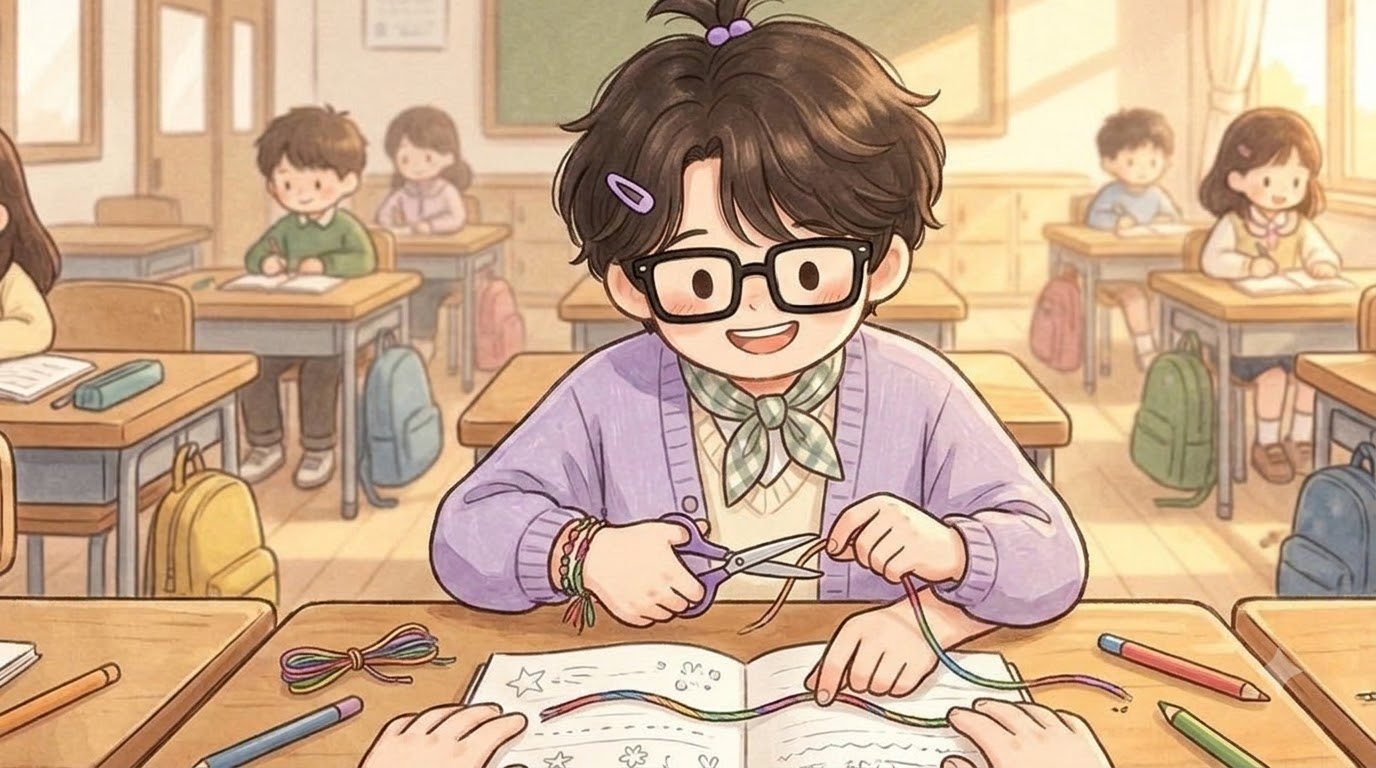
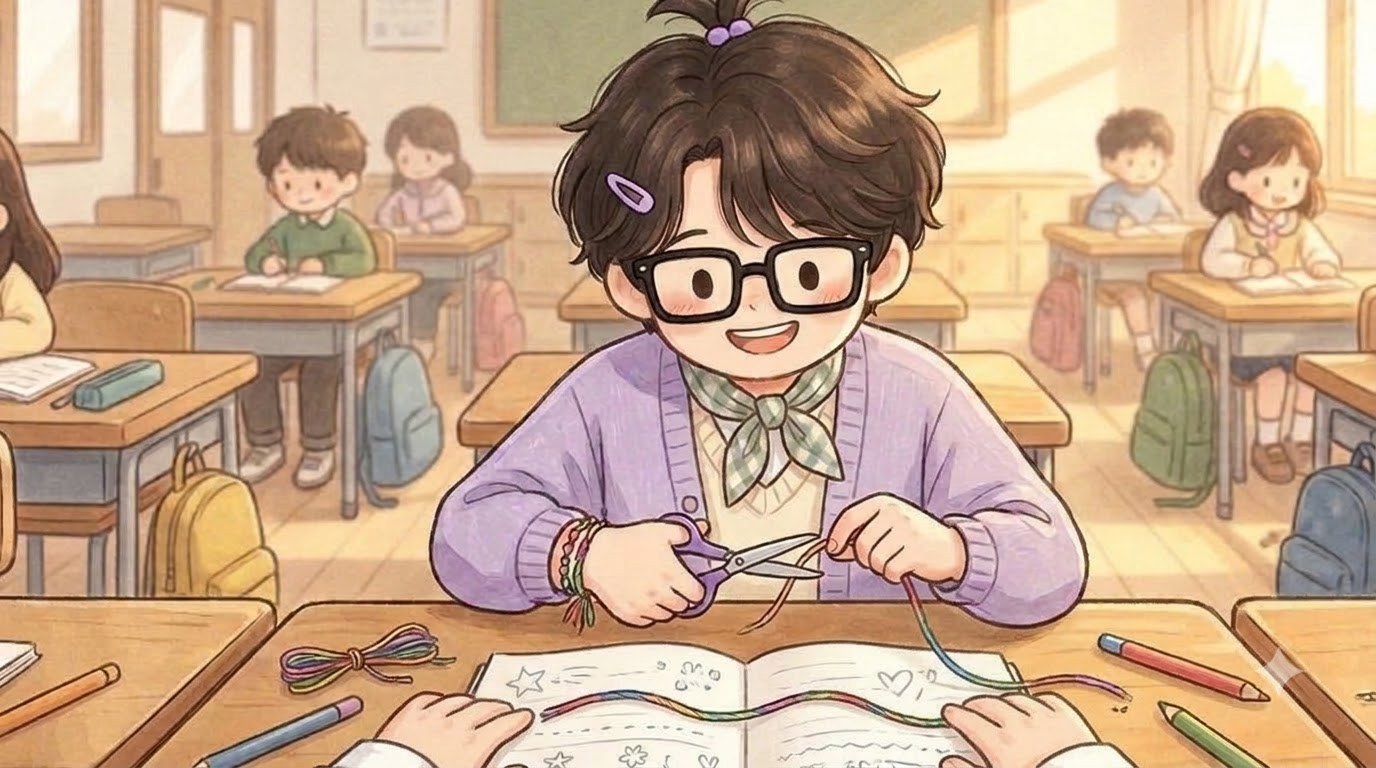
Picking from a tray: no choice of the same kind as the answer any more (two notebooks and a book made 联络本 look like 'the pink notebook'); redrawn: Minho 07e (two legs in one shoe), Hangyeol 12b (three hands) (BUILD 1105205154)

Changed region(s): [[0.5625, 0.75, 0.8438, 1.0], [0.2188, 0.875, 0.4062, 1.0], [0.9062, 0.8438, 0.9375, 0.9062]]

diff --git a/index.html b/index.html
@@ -119,14 +119,14 @@ body,button{word-break:keep-all;overflow-wrap:break-word}
 <div id="fader"></div>
 <script>
 // same address, newest version: if the page this phone has kept is older than the one online, fetch the new one and reopen
-const BUILD='1105201350';
+const BUILD='1105205154';
 try{fetch(location.pathname,{cache:'no-store'}).then(r=>r.text()).then(t=>{const m=t.match(/const BUILD='(\d+)'/);if(m&&m[1]!==BUILD&&sessionStorage.getItem('upd')!==m[1]){sessionStorage.setItem('upd',m[1]);fetch(location.pathname,{cache:'reload'}).then(()=>location.reload())}}).catch(()=>{})}catch(e){}
 </script>
-<script src="i18n.js?v=1105201350"></script>
-<script src="i18n_prologue_v2.js?v=1105201350"></script>
-<script src="day2/i18n_engine.js?v=1105201350"></script>
-<script src="day2/data.js?v=1105201350"></script>
-<script src="day3/data.js?v=1105201350"></script>
+<script src="i18n.js?v=1105205154"></script>
+<script src="i18n_prologue_v2.js?v=1105205154"></script>
+<script src="day2/i18n_engine.js?v=1105205154"></script>
+<script src="day2/data.js?v=1105205154"></script>
+<script src="day3/data.js?v=1105205154"></script>
 <script>
 // ---------- data ----------
 const MW=1672,MH=941,KID=180;
@@ -540,29 +540,29 @@ function pickHero(){const m=document.getElementById('modal'),c=document.getEleme
  c.innerHTML=`<h2>${tr('전학생 반장되기')}</h2><p>${tr('말 한마디 못 하는 전학생,<br>반장 선거에 나가다.')}</p><p style="margin-top:14px">${tr('누구로 할까요?')}</p>${(()=>{const s=loadSave();return s&&s.day>=2&&s.mode===UI+'-'+LANG?`<p><button class="big" id="cont">${tr('{n}일차부터 이어 하기').replace('{n}',s.day)}</button></p>`:''})()}<div class="pick heroes"><button data-h="hero_f"><img src="faces/hero_f_smile.jpg" alt="여자 주인공"></button><button data-h="hero_m"><img src="faces/hero_m_smile.jpg" alt="남자 주인공"></button></div>`;
  m.classList.add('on');{const cb=document.getElementById('cont');if(cb)cb.onclick=()=>{const s=loadSave();HERO=s.hero;Object.assign(HEART,s.heart||{});(s.found||[]).forEach(k=>FOUND.add(k));HEART_D1={...HEART};chime();(typeof contGame==='function'?contGame(s):startDay(Math.min(s.day,Object.keys(window.D3||{}).length?3:2)))}}c.querySelectorAll('.pick button').forEach(b=>b.onclick=()=>{HERO=b.dataset.h;m.classList.remove('on');chime();bgm('day');load('home_am');say([['nar','','이사 온 다음 날 아침. 아직 풀지 못한 상자들이 쌓여 있다.'],['think','sad','(오늘부터 새 학교야. 여기 말도 아직 서툰데…….)'],['think','smile','({m}한테 인사하고 학교 가야지.)']],morning)})}
 </script>
-<script src="day2/engine.js?v=1105201350"></script>
-<script src="day2/ep_minho.js?v=1105201350"></script>
-<script src="day2/meet.js?v=1105201350"></script>
-<script src="day2/ep_sua.js?v=1105201350"></script>
-<script src="day2/ep_hangyeol.js?v=1105201350"></script>
-<script src="day2/ep_siwoo.js?v=1105201350"></script>
-<script src="day2/ep_haram.js?v=1105201350"></script>
-<script src="day2/ep_jiho.js?v=1105201350"></script>
-<script src="day2/ep_hyeeun.js?v=1105201350"></script>
-<script src="day2/ep_haneul.js?v=1105201350"></script>
-<script src="day2/ep_junho.js?v=1105201350"></script>
-<script src="day2/ep_yuna.js?v=1105201350"></script>
-<script src="day2/ep_yena.js?v=1105201350"></script>
-<script src="day2/ep_haeun.js?v=1105201350"></script>
-<script src="day2/ep_youngmin.js?v=1105201350"></script>
-<script src="day2/ep_seah.js?v=1105201350"></script>
-<script src="day2/ep_jihoon.js?v=1105201350"></script>
-<script src="words_ja_ru.js?v=1105201350"></script>
-<script src="day2/mybag.js?v=1105201350"></script>
-<script src="day2/spots.js?v=1105201350"></script>
-<script src="day2/textfit.js?v=1105201350"></script>
-<script src="day2/tester.js?v=1105201350"></script>
-<script src="day2/ux.js?v=1105201350"></script>
+<script src="day2/engine.js?v=1105205154"></script>
+<script src="day2/ep_minho.js?v=1105205154"></script>
+<script src="day2/meet.js?v=1105205154"></script>
+<script src="day2/ep_sua.js?v=1105205154"></script>
+<script src="day2/ep_hangyeol.js?v=1105205154"></script>
+<script src="day2/ep_siwoo.js?v=1105205154"></script>
+<script src="day2/ep_haram.js?v=1105205154"></script>
+<script src="day2/ep_jiho.js?v=1105205154"></script>
+<script src="day2/ep_hyeeun.js?v=1105205154"></script>
+<script src="day2/ep_haneul.js?v=1105205154"></script>
+<script src="day2/ep_junho.js?v=1105205154"></script>
+<script src="day2/ep_yuna.js?v=1105205154"></script>
+<script src="day2/ep_yena.js?v=1105205154"></script>
+<script src="day2/ep_haeun.js?v=1105205154"></script>
+<script src="day2/ep_youngmin.js?v=1105205154"></script>
+<script src="day2/ep_seah.js?v=1105205154"></script>
+<script src="day2/ep_jihoon.js?v=1105205154"></script>
+<script src="words_ja_ru.js?v=1105205154"></script>
+<script src="day2/mybag.js?v=1105205154"></script>
+<script src="day2/spots.js?v=1105205154"></script>
+<script src="day2/textfit.js?v=1105205154"></script>
+<script src="day2/tester.js?v=1105205154"></script>
+<script src="day2/ux.js?v=1105205154"></script>
 <script>
 // the goal shows big for a few seconds, then folds into a small pill (tap it to open it again)
 {const g=document.getElementById('goal');let t=null;const big=()=>{g.classList.remove('mini');clearTimeout(t);t=setTimeout(()=>g.classList.add('mini'),4000)};

diff --git a/day2/mybag.js b/day2/mybag.js
@@ -2,7 +2,7 @@
 // When the hero takes out their OWN thing, the map is not searched: their bag opens on screen as a tray of cut-out pictures.
 // Same find rules: tapping a thing says its name, the button says this mission's action with the target word,
 // the right thing goes on, a wrong one only buzzes. A step {k, goal, bag:[…]} in a scene uses it; so does Mom's notebook review.
-function bagFind(k,items,goalText,done){busy=true;closeBubble();const m=document.getElementById('modal'),c=document.getElementById('mcard');
+function bagFind(k,items,goalText,done){busy=true;closeBubble();items=noLookalike(k,items);const m=document.getElementById('modal'),c=document.getElementById('mcard');
  const goalTr=()=>tr(goalText||'「{x}」 꺼내기');let sel=null;
  c.innerHTML=`<h2>${goalTr().replace('{x}',wordOf(k)+' <button class="spk" id="bagagain">🔊</button>')}</h2><div class="ztray">${items.map(q=>`<button class="zit" data-k="${q}"><img src="items/${q}.png" alt="" onerror="this.parentNode.remove()"></button>`).join('')}</div><div class="zok"></div>`;
  m.classList.add('on');setTimeout(()=>speak(k),350);document.getElementById('bagagain').onclick=()=>speak(k);const okw=c.querySelector('.zok');
@@ -26,9 +26,20 @@ deskFind=function(k,done){bagFind(k,['pcase','notebook','pencil','eraser'],'「{
 // (a seated kid at a desk, or a standing one). The tray shows it with 3–5 other things lying near it (learned words first),
 // never a look-alike. A scene step can force it: {k, tray:true} or {k, tray:false}. Big, clearly visible things stay map taps.
 let TRAY_NEXT=null;// set by runSteps from the step's tray option, read by the next find
-const LOOKALIKE=[['pencil','mechanical_pencil','colored_pencil','crayon','highlighter','pen'],['notebook','sketchbook','paper','envelope','note','book','card','photo','picture','poster','map','calendar'],
- ['handkerchief','tissue','napkin'],['cup','milk_carton','water_bottle','water','milk'],['glue','glue_stick','tape'],['bag','pcase','lunch_box','wallet'],['ball','moon'],['headphones','earphones','earmuffs'],['clock','alarm_clock','stopwatch'],['hat','hoodie']];
-const lookalike=(a,b)=>LOOKALIKE.some(g=>g.includes(a)&&g.includes(b));
+// 11/05: a choice that looks like the answer (or is the same kind of thing) teaches nothing: 「the pink notebook」 among notebooks is learned as
+// 「pink」, not as 「homework diary」. Notebooks/books/papers, shoes, hand/finger/wrist, foot/ankle, parts of a face, clothes are kept apart.
+const LOOKALIKE=[['pencil','mechanical_pencil','colored_pencil','crayon','highlighter','pen'],
+ ['notebook','notice_book','textbook','sketchbook','diary','worksheet','book','paper','drawing_paper','envelope','note','card','name','name_tag','photo','picture','poster','map','calendar','sticker'],
+ ['handkerchief','tissue','napkin','towel'],['cup','milk_carton','water_bottle','water','milk'],['glue','glue_stick','tape'],['bag','pcase','lunch_box','wallet'],['ball','moon','magnet'],['headphones','earphones','earmuffs'],['clock','alarm_clock','stopwatch'],
+ ['hat','hoodie'],['clothes','gym_clothes','hoodie','vest','jacket','shirt','coat'],['shoes','indoor_shoes','slippers','boots'],
+ ['hand','finger','palm','wrist','thumb'],['foot','ankle','heel','toe','leg'],['nose','eye','forehead','cheek','face','mouth'],['spoon','ladle'],['trash_can','bucket']];
+const lookalike=(a,b)=>a!==b&&LOOKALIKE.some(g=>g.includes(a)&&g.includes(b));
+// a picture tray (my bag, a close-up, a step's own list) never shows a look-alike of the answer: it is swapped for a plainly different thing
+const TRAY_FILL=['pcase','eraser','water_bottle','handkerchief','pencil','scissors','ruler','umbrella','apple','glue'],BODY_FILL=['ear','knee','hand','foot','eye'];
+function noLookalike(k,items){const out=items.filter(q=>q===k||!lookalike(q,k));const n=Math.min(Math.max(items.length,3),5);
+ const fill=(BODY_PARTS.has(k)?BODY_FILL:TRAY_FILL).filter(q=>q!==k&&!out.includes(q)&&!lookalike(q,k)&&LANGS[LANG].words[q]);
+ while(out.length<n&&fill.length){const q=fill.shift();out.splice(Math.floor(Math.random()*(out.length+1)),0,q)}
+ if(!out.includes(k))out.push(k);return out}
 function hardToSee(k){const spots=(OBJ[MAP]||[]).filter(o=>o[0]===k);if(!spots.length)return false;
  const under=(x,y)=>npcs.some(n=>n.h&&x>n.x-n.w*.45&&x<n.x+n.w*.45&&y>n.y-n.h&&y<n.y+10);// sprites hang above their foot point (a seated kid's back covers the desk in front)
  return spots.every(o=>o[3]<20||under(o[1],o[2]))}
